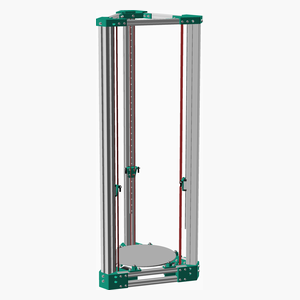
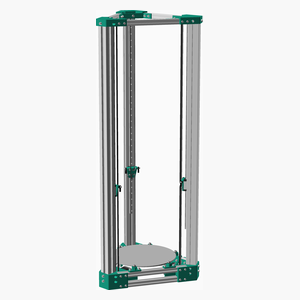
update generated

Changed region(s): [[0.36, 0.09, 0.45, 0.9], [0.57, 0.09, 0.63, 0.6], [0.57, 0.63, 0.63, 0.87]]

diff --git a/readme.html b/readme.html
@@ -76,6 +76,21 @@
 <tr>
 <td style="text-align: right;">&nbsp;&nbsp;.&nbsp;</td>
 <td style="text-align: right;">&nbsp;&nbsp;.&nbsp;</td>
+<td style="text-align: right;">&nbsp;&nbsp;.&nbsp;</td>
+<td style="text-align: right;">&nbsp;&nbsp;.&nbsp;</td>
+<td style="text-align: right;">&nbsp;&nbsp;.&nbsp;</td>
+<td style="text-align: right;">&nbsp;&nbsp;.&nbsp;</td>
+<td style="text-align: right;">&nbsp;&nbsp;.&nbsp;</td>
+<td style="text-align: right;">&nbsp;&nbsp;.&nbsp;</td>
+<td style="text-align: right;">&nbsp;&nbsp;.&nbsp;</td>
+<td style="text-align: right;">&nbsp;&nbsp;.&nbsp;</td>
+<td style="text-align: right;">&nbsp;&nbsp;3&nbsp;</td>
+<td style="text-align: right;">&nbsp;&nbsp;3&nbsp;</td>
+<td style="text-align: left;">&nbsp;&nbsp; Belt GT2 x 6mm x 2072mm</td>
+</tr>
+<tr>
+<td style="text-align: right;">&nbsp;&nbsp;.&nbsp;</td>
+<td style="text-align: right;">&nbsp;&nbsp;.&nbsp;</td>
 <td style="text-align: right;">&nbsp;&nbsp;3&nbsp;</td>
 <td style="text-align: right;">&nbsp;&nbsp;.&nbsp;</td>
 <td style="text-align: right;">&nbsp;&nbsp;.&nbsp;</td>
@@ -102,21 +117,6 @@
 <td style="text-align: right;">&nbsp;&nbsp;.&nbsp;</td>
 <td style="text-align: right;">&nbsp;&nbsp;3&nbsp;</td>
 <td style="text-align: left;">&nbsp;&nbsp; Extrusion E4040 x 1000mm</td>
-</tr>
-<tr>
-<td style="text-align: right;">&nbsp;&nbsp;.&nbsp;</td>
-<td style="text-align: right;">&nbsp;&nbsp;.&nbsp;</td>
-<td style="text-align: right;">&nbsp;&nbsp;.&nbsp;</td>
-<td style="text-align: right;">&nbsp;&nbsp;.&nbsp;</td>
-<td style="text-align: right;">&nbsp;&nbsp;.&nbsp;</td>
-<td style="text-align: right;">&nbsp;&nbsp;.&nbsp;</td>
-<td style="text-align: right;">&nbsp;&nbsp;.&nbsp;</td>
-<td style="text-align: right;">&nbsp;&nbsp;.&nbsp;</td>
-<td style="text-align: right;">&nbsp;&nbsp;.&nbsp;</td>
-<td style="text-align: right;">&nbsp;&nbsp;.&nbsp;</td>
-<td style="text-align: right;">&nbsp;&nbsp;3&nbsp;</td>
-<td style="text-align: right;">&nbsp;&nbsp;3&nbsp;</td>
-<td style="text-align: left;">&nbsp;&nbsp; GT2 2018.57</td>
 </tr>
 <tr>
 <td style="text-align: right;">&nbsp;&nbsp;.&nbsp;</td>
@@ -1124,7 +1124,7 @@
 <tbody>
 <tr>
 <td style="text-align: right;">3</td>
-<td style="text-align: left;">GT2 2018.57</td>
+<td style="text-align: left;">Belt GT2 x 6mm x 2072mm</td>
 </tr>
 </tbody>
 </table>

diff --git a/printme.html b/printme.html
@@ -73,6 +73,21 @@
 <tr>
 <td style="text-align: right;">&nbsp;&nbsp;.&nbsp;</td>
 <td style="text-align: right;">&nbsp;&nbsp;.&nbsp;</td>
+<td style="text-align: right;">&nbsp;&nbsp;.&nbsp;</td>
+<td style="text-align: right;">&nbsp;&nbsp;.&nbsp;</td>
+<td style="text-align: right;">&nbsp;&nbsp;.&nbsp;</td>
+<td style="text-align: right;">&nbsp;&nbsp;.&nbsp;</td>
+<td style="text-align: right;">&nbsp;&nbsp;.&nbsp;</td>
+<td style="text-align: right;">&nbsp;&nbsp;.&nbsp;</td>
+<td style="text-align: right;">&nbsp;&nbsp;.&nbsp;</td>
+<td style="text-align: right;">&nbsp;&nbsp;.&nbsp;</td>
+<td style="text-align: right;">&nbsp;&nbsp;3&nbsp;</td>
+<td style="text-align: right;">&nbsp;&nbsp;3&nbsp;</td>
+<td style="text-align: left;">&nbsp;&nbsp; Belt GT2 x 6mm x 2072mm</td>
+</tr>
+<tr>
+<td style="text-align: right;">&nbsp;&nbsp;.&nbsp;</td>
+<td style="text-align: right;">&nbsp;&nbsp;.&nbsp;</td>
 <td style="text-align: right;">&nbsp;&nbsp;3&nbsp;</td>
 <td style="text-align: right;">&nbsp;&nbsp;.&nbsp;</td>
 <td style="text-align: right;">&nbsp;&nbsp;.&nbsp;</td>
@@ -99,21 +114,6 @@
 <td style="text-align: right;">&nbsp;&nbsp;.&nbsp;</td>
 <td style="text-align: right;">&nbsp;&nbsp;3&nbsp;</td>
 <td style="text-align: left;">&nbsp;&nbsp; Extrusion E4040 x 1000mm</td>
-</tr>
-<tr>
-<td style="text-align: right;">&nbsp;&nbsp;.&nbsp;</td>
-<td style="text-align: right;">&nbsp;&nbsp;.&nbsp;</td>
-<td style="text-align: right;">&nbsp;&nbsp;.&nbsp;</td>
-<td style="text-align: right;">&nbsp;&nbsp;.&nbsp;</td>
-<td style="text-align: right;">&nbsp;&nbsp;.&nbsp;</td>
-<td style="text-align: right;">&nbsp;&nbsp;.&nbsp;</td>
-<td style="text-align: right;">&nbsp;&nbsp;.&nbsp;</td>
-<td style="text-align: right;">&nbsp;&nbsp;.&nbsp;</td>
-<td style="text-align: right;">&nbsp;&nbsp;.&nbsp;</td>
-<td style="text-align: right;">&nbsp;&nbsp;.&nbsp;</td>
-<td style="text-align: right;">&nbsp;&nbsp;3&nbsp;</td>
-<td style="text-align: right;">&nbsp;&nbsp;3&nbsp;</td>
-<td style="text-align: left;">&nbsp;&nbsp; GT2 2018.57</td>
 </tr>
 <tr>
 <td style="text-align: right;">&nbsp;&nbsp;.&nbsp;</td>
@@ -1099,7 +1099,7 @@
 <tbody>
 <tr>
 <td style="text-align: right;">3</td>
-<td style="text-align: left;">GT2 2018.57</td>
+<td style="text-align: left;">Belt GT2 x 6mm x 2072mm</td>
 </tr>
 </tbody>
 </table>

diff --git a/readme.md b/readme.md
@@ -31,9 +31,9 @@ Cerberus-revised for MGN rails
 |---:|---:|---:|---:|---:|---:|---:|---:|---:|---:|---:|---:|:---|
 |  |  |  |  |  |  |  |  |  |  |  | | **Vitamins** |
 | &nbsp;&nbsp;6&nbsp; | &nbsp;&nbsp;.&nbsp; | &nbsp;&nbsp;.&nbsp; | &nbsp;&nbsp;.&nbsp; | &nbsp;&nbsp;.&nbsp; | &nbsp;&nbsp;.&nbsp; | &nbsp;&nbsp;.&nbsp; | &nbsp;&nbsp;.&nbsp; | &nbsp;&nbsp;.&nbsp; | &nbsp;&nbsp;.&nbsp; | &nbsp;&nbsp;.&nbsp; |  &nbsp;&nbsp;6&nbsp; | &nbsp;&nbsp; Ball bearing F625ZZ 5mm x 16mm x 5mm |
+| &nbsp;&nbsp;.&nbsp; | &nbsp;&nbsp;.&nbsp; | &nbsp;&nbsp;.&nbsp; | &nbsp;&nbsp;.&nbsp; | &nbsp;&nbsp;.&nbsp; | &nbsp;&nbsp;.&nbsp; | &nbsp;&nbsp;.&nbsp; | &nbsp;&nbsp;.&nbsp; | &nbsp;&nbsp;.&nbsp; | &nbsp;&nbsp;.&nbsp; | &nbsp;&nbsp;3&nbsp; |  &nbsp;&nbsp;3&nbsp; | &nbsp;&nbsp; Belt GT2 x 6mm x 2072mm |
 | &nbsp;&nbsp;.&nbsp; | &nbsp;&nbsp;.&nbsp; | &nbsp;&nbsp;3&nbsp; | &nbsp;&nbsp;.&nbsp; | &nbsp;&nbsp;.&nbsp; | &nbsp;&nbsp;.&nbsp; | &nbsp;&nbsp;3&nbsp; | &nbsp;&nbsp;3&nbsp; | &nbsp;&nbsp;.&nbsp; | &nbsp;&nbsp;.&nbsp; | &nbsp;&nbsp;.&nbsp; |  &nbsp;&nbsp;9&nbsp; | &nbsp;&nbsp; Extrusion E2020 x 279.482mm |
 | &nbsp;&nbsp;.&nbsp; | &nbsp;&nbsp;.&nbsp; | &nbsp;&nbsp;.&nbsp; | &nbsp;&nbsp;.&nbsp; | &nbsp;&nbsp;.&nbsp; | &nbsp;&nbsp;.&nbsp; | &nbsp;&nbsp;.&nbsp; | &nbsp;&nbsp;.&nbsp; | &nbsp;&nbsp;.&nbsp; | &nbsp;&nbsp;3&nbsp; | &nbsp;&nbsp;.&nbsp; |  &nbsp;&nbsp;3&nbsp; | &nbsp;&nbsp; Extrusion E4040 x 1000mm |
-| &nbsp;&nbsp;.&nbsp; | &nbsp;&nbsp;.&nbsp; | &nbsp;&nbsp;.&nbsp; | &nbsp;&nbsp;.&nbsp; | &nbsp;&nbsp;.&nbsp; | &nbsp;&nbsp;.&nbsp; | &nbsp;&nbsp;.&nbsp; | &nbsp;&nbsp;.&nbsp; | &nbsp;&nbsp;.&nbsp; | &nbsp;&nbsp;.&nbsp; | &nbsp;&nbsp;3&nbsp; |  &nbsp;&nbsp;3&nbsp; | &nbsp;&nbsp; GT2 2018.57 |
 | &nbsp;&nbsp;.&nbsp; | &nbsp;&nbsp;.&nbsp; | &nbsp;&nbsp;.&nbsp; | &nbsp;&nbsp;.&nbsp; | &nbsp;&nbsp;.&nbsp; | &nbsp;&nbsp;.&nbsp; | &nbsp;&nbsp;.&nbsp; | &nbsp;&nbsp;.&nbsp; | &nbsp;&nbsp;.&nbsp; | &nbsp;&nbsp;3&nbsp; | &nbsp;&nbsp;.&nbsp; |  &nbsp;&nbsp;3&nbsp; | &nbsp;&nbsp; Linear rail MGN12 x 800mm |
 | &nbsp;&nbsp;.&nbsp; | &nbsp;&nbsp;.&nbsp; | &nbsp;&nbsp;.&nbsp; | &nbsp;&nbsp;.&nbsp; | &nbsp;&nbsp;.&nbsp; | &nbsp;&nbsp;.&nbsp; | &nbsp;&nbsp;.&nbsp; | &nbsp;&nbsp;.&nbsp; | &nbsp;&nbsp;3&nbsp; | &nbsp;&nbsp;.&nbsp; | &nbsp;&nbsp;.&nbsp; |  &nbsp;&nbsp;3&nbsp; | &nbsp;&nbsp; Linear rail carriage MGN12H |
 | &nbsp;&nbsp;.&nbsp; | &nbsp;&nbsp;.&nbsp; | &nbsp;&nbsp;.&nbsp; | &nbsp;&nbsp;.&nbsp; | &nbsp;&nbsp;.&nbsp; | &nbsp;&nbsp;.&nbsp; | &nbsp;&nbsp;.&nbsp; | &nbsp;&nbsp;.&nbsp; | &nbsp;&nbsp;6&nbsp; | &nbsp;&nbsp;.&nbsp; | &nbsp;&nbsp;.&nbsp; |  &nbsp;&nbsp;6&nbsp; | &nbsp;&nbsp; Nut M3 x 2.4mm nyloc |
@@ -377,7 +377,7 @@ Cerberus-revised for MGN rails
 ### Vitamins
 |Qty|Description|
 |---:|:----------|
-|3| GT2 2018.57|
+|3| Belt GT2 x 6mm x 2072mm|
 
 
 ### Sub-assemblies
